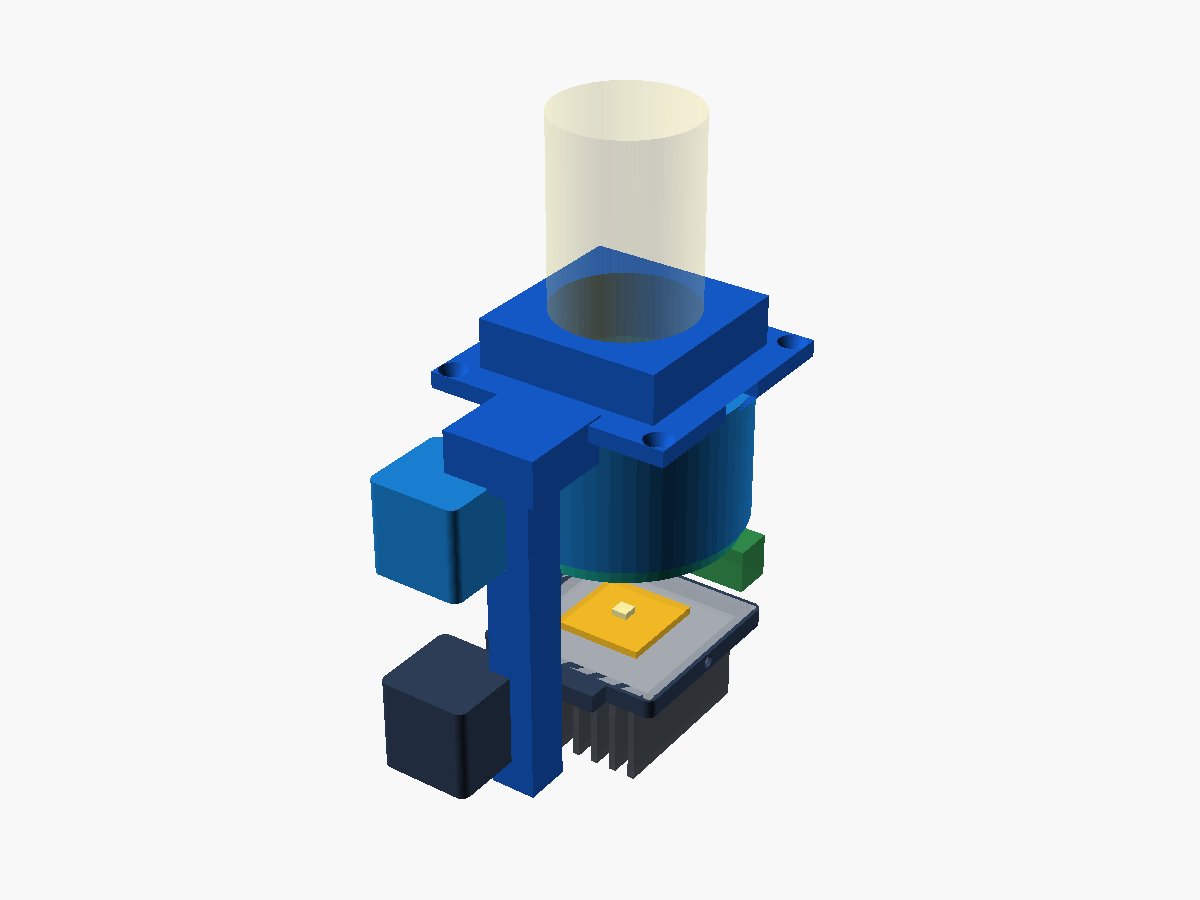
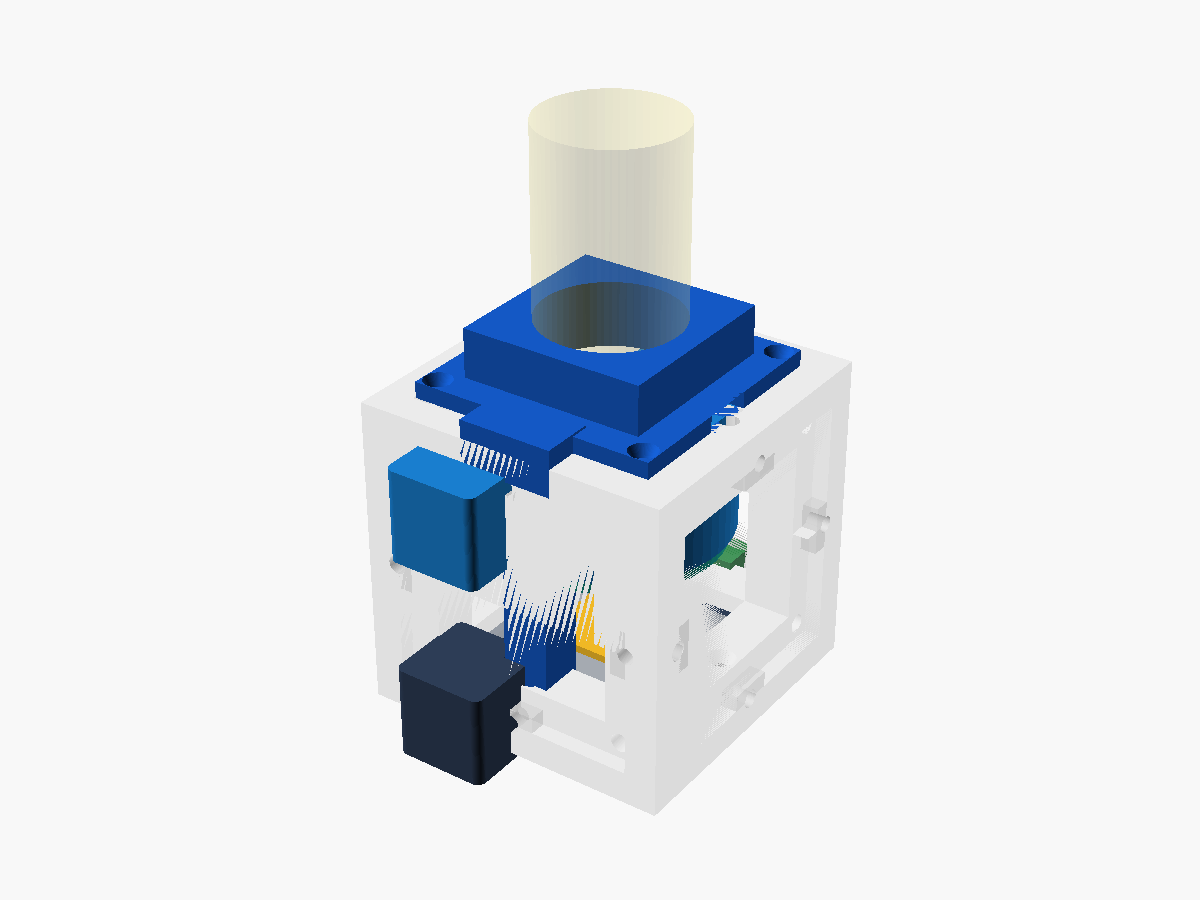
Enclose collimator rail in auxiliary uCube
Use the clearer video frames to span the adjustable rail through a
second uCube cell and keep the slider within its lower frame envelope.

Changed region(s): [[0.3083, 0.0622, 0.7092, 0.9022]]

diff --git a/README.md b/README.md
@@ -27,12 +27,13 @@ The bottom face holds a 50 x 50 x 2.05 mm beamsplitter at 45 degrees. Its two
 rails extend through the face recess and stop flush with the visible cube
 opening, so they remain hidden in a straight side view.
 
-The default light face now carries a 10 mm square external rail. A printed
-collimator barrel slides along it, keeping the lens axis centered on the cube
-opening while allowing the lens-to-LED distance to be tuned. The rail channel
-is 10.3 mm square, its surrounding walls are 5 mm thick, and opposing M3 clamp
-locations lock the chosen position. Set `collimator_rail_position_mm` to move
-the collimator before printing.
+The default light face now connects to a second 68 mm official-uCube cell that
+contains a 10 mm square rail. A printed collimator barrel slides along it,
+keeping the lens axis centered on the optical cube while allowing the
+lens-to-LED distance to be tuned. The rail channel is 10.3 mm square, its
+surrounding walls are 5 mm thick, and opposing M3 clamp locations lock the
+chosen position. Set `collimator_rail_position_mm` to move the collimator before
+printing.
 
 The supplied two-lens assembly measures 41 mm in diameter and 24.1 mm thick
 along the light path. It drops into a 41.2 mm barrel bore, seats on a 1 mm
@@ -97,7 +98,8 @@ full modes 9, 10, and 12.
 
 For the adjustable version, test modes 15 through 17 before a final print. The
 10.0/10.3 mm rail fit and 5 mm slider walls come from the supplied design
-notes. Rail length, face anchor dimensions, slider length, and M3 heat-set
-insert pockets are marked `PROVISIONAL` because those measurements were not
-visible in the transcripts. Confirm those dimensions and the usable focus
-range on the physical cube, then set `collimator_rail_position_mm`.
+notes. The newer video frames show the rail spanning one additional 68 mm
+uCube cell and the 41 mm collimator barely clearing the opened frame. Face
+anchor dimensions, slider length, and M3 heat-set insert pockets remain marked
+`PROVISIONAL`. Confirm those dimensions and the usable focus range on the
+physical cube, then set `collimator_rail_position_mm`.
